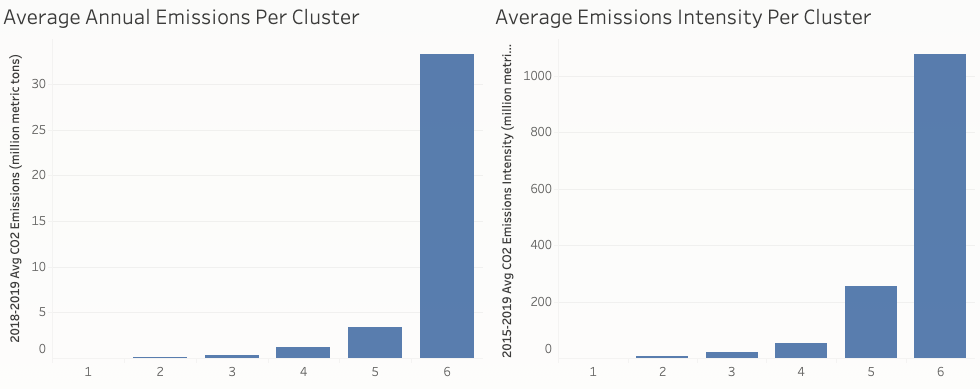
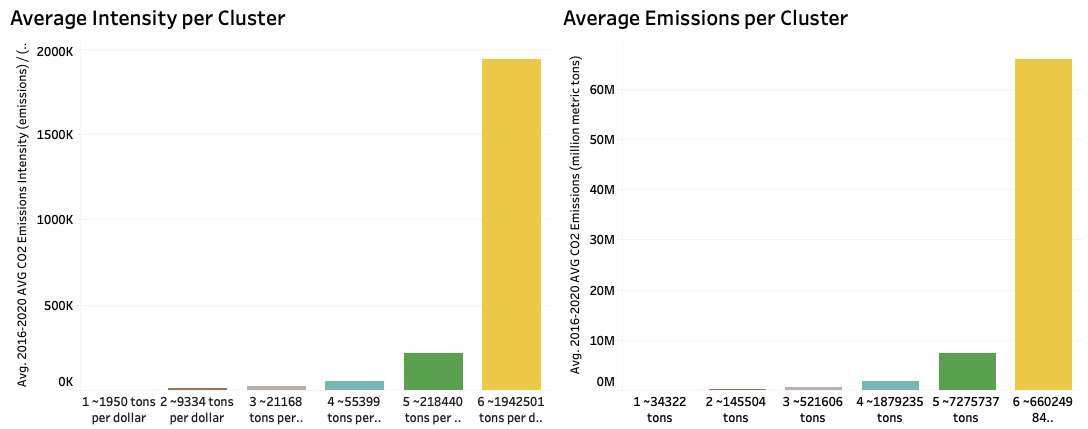
adding in some changes to how the clusters work as well as a pic

diff --git a/emissions-data-overview.html b/emissions-data-overview.html
@@ -50,8 +50,11 @@
         <ul>
           <li><strong>Carbon Emissions-</strong> These are the yearly carbon emissions a company directly produces.</li>
           <li><strong>Carbon Intensity-</strong> This is a metric we came up with that is the Carbon Emissions dviided by their operating costs, which allows us to compare small companies to large companies more fairly.</li>
-          <li><strong>Clustering-</strong> We clustered the copmanies into 6 groups based on a log of both their carbon emissions & intensity. Each group has at least an order of magnitude difference and this gives us a quick way to see the difference between companies. For an idea of this log scale difference take a look at our methodology page or the rough emissions in the legends alongside the groups numbers.</li>
+          <li><strong>Clustering-</strong> We clustered the copmanies into 6 groups based on a log of both their carbon emissions & intensity. Each group has at least an order of magnitude difference and this gives us a quick way to see the difference between companies. For an idea of this log scale difference take a look at these two graphs showing the avg emissions and intensity for each of the 6 groups (clusters)—notice the exponential growth. More on the methodology page about this.</li>
         </ul>
+        <div style= "float: left; width:90%; padding-left: 5%; ">
+          <image src="./images/clusters.png"></image>
+        </div>
         <h1>Graphs</h1>
 
       

diff --git a/methodology.html b/methodology.html
@@ -68,7 +68,7 @@
 
               <div style="width:57%; float:right;">
                 <image src="./images/clusters.png" alt="companies sorted by carbon emissions"/>
-                <p style="list-style-type: disc; font-size: 9pt; font-family: Arial; line-height: 1.38;">Fig 1: The average emissions from 2018 - 2019 (left) and emissions intensity 2015 - 2019 (right) per cluster.</p><br>
+                <p style="list-style-type: disc; font-size: 9pt; font-family: Arial; line-height: 1.38;">Fig 1: The average emissions from 2016 - 2020 (left) and emissions intensity 2016 - 2020 (right) per cluster.</p><br>
               </div>
             </div>
           </div>
